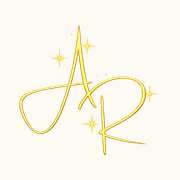
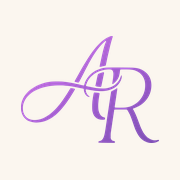
Publica site (2026-09-27 03:36 UTC)

Changed region(s): [[0.0833, 0.1389, 0.8889, 0.8611]]

diff --git a/index.html b/index.html
@@ -18,10 +18,10 @@
   <meta property="og:description"
     content="07 de novembro de 2026, às 20h, em Porto Alegre. Abra para confirmar sua presença." />
   <meta property="og:url" content="https://rixhards.github.io/casamento/" />
-  <meta property="og:image" content="https://rixhards.github.io/casamento/assets/og-preview.jpg" />
+  <meta property="og:image" content="https://rixhards.github.io/casamento/assets/og-convite.jpg" />
   <meta property="og:image:width" content="1200" />
   <meta property="og:image:height" content="630" />
-  <meta property="og:image:alt" content="Brasão A&amp;R — Ana e Richard, 07 de novembro de 2026" />
+  <meta property="og:image:alt" content="Monograma AR — Ana e Richard, 07 de novembro de 2026" />
   <meta name="twitter:card" content="summary_large_image" />
 
   <link rel="canonical" href="https://rixhards.github.io/casamento/" />
